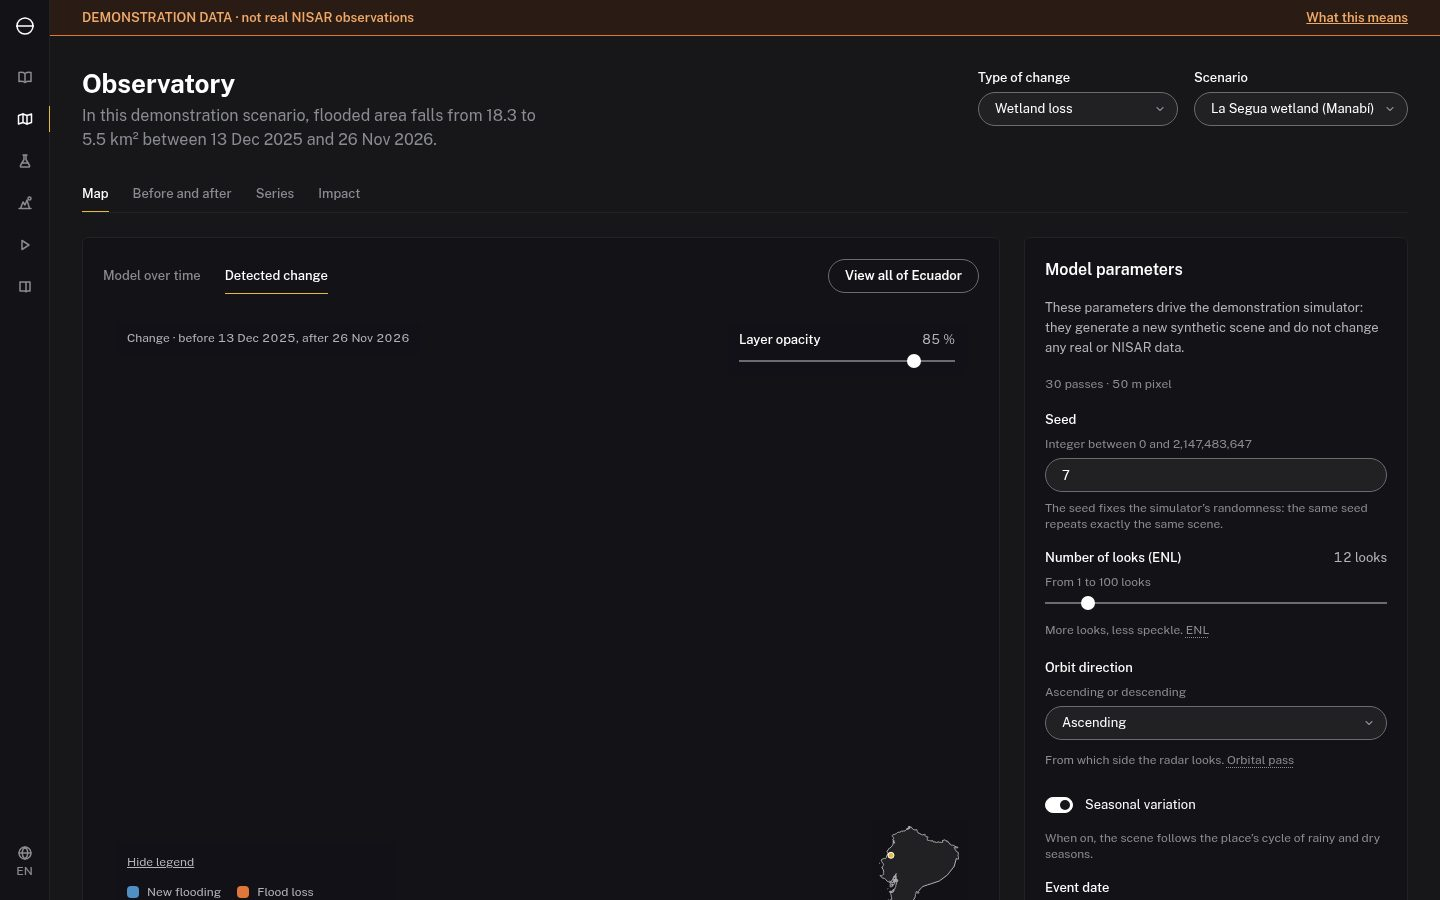
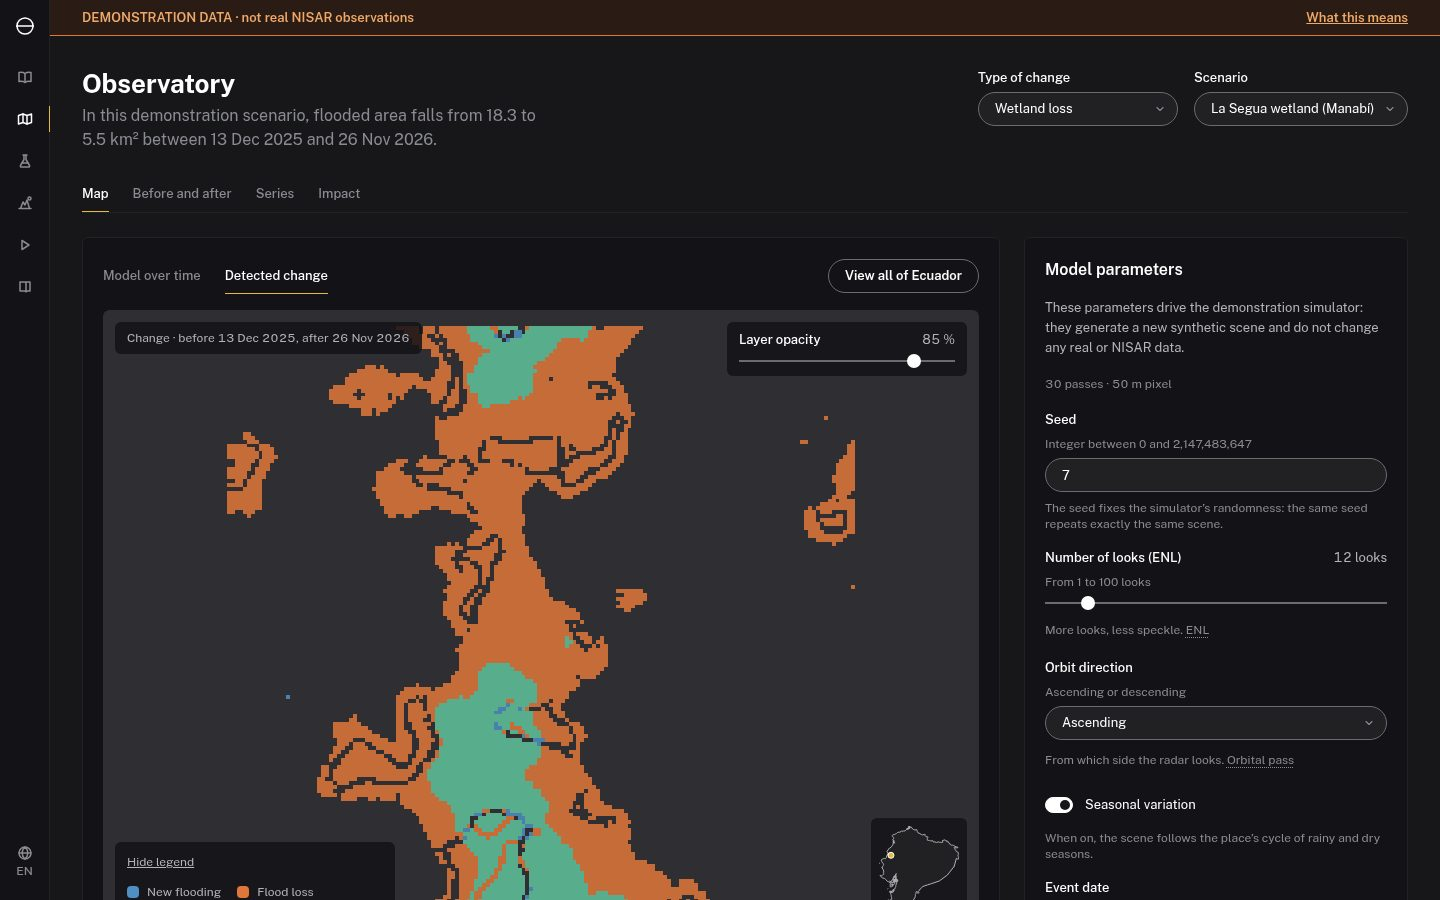
fix(frontend): el mapa del Observatorio conserva su alto y el e2e usa el menú móvil

diff --git a/frontend/e2e/flujos.spec.ts b/frontend/e2e/flujos.spec.ts
@@ -88,10 +88,20 @@ for (const { nombre, ancho, alto } of ANCHOS) {
       const posts: string[] = []
       page.on('request', (r) => { if (r.method() === 'POST' && r.url().includes('/api/simulacion/escenario')) posts.push(r.url()) })
       await page.goto('/observatorio')
-      const todo = page.getByRole('button', { name: 'Ver todo Ecuador' })
+      // En móvil la acción vive en el menú «Más acciones»; en escritorio, en la barra del mapa.
+      const menu = page.getByRole('button', { name: 'Más acciones' })
+      const todo = page.getByRole('button', { name: 'Ver todo Ecuador' }).or(menu)
       await expect(todo).toBeVisible({ timeout: 30_000 })
-      await todo.click()
-      await expect(page.getByRole('button', { name: 'Ver el escenario' })).toBeVisible()
+      if (await menu.isVisible()) {
+        await menu.click()
+        await page.getByRole('menuitem', { name: 'Ver todo Ecuador' }).click()
+        await menu.click()
+        await expect(page.getByRole('menuitem', { name: 'Ver el escenario' })).toBeVisible()
+        await page.keyboard.press('Escape')
+      } else {
+        await todo.click()
+        await expect(page.getByRole('button', { name: 'Ver el escenario' })).toBeVisible()
+      }
       const lienzo = page.getByTestId('mapa')
       await expect(lienzo.locator('canvas.maplibregl-canvas')).toBeVisible()
       // Borde oeste del mapa con todo Ecuador a la vista (el encuadre deja 16 px de margen al oeste de

diff --git a/frontend/src/pantallas/observatorio/observatorio.css b/frontend/src/pantallas/observatorio/observatorio.css
@@ -13,12 +13,12 @@
 .vista-mapa__acciones { display: flex; gap: var(--space-2); flex-wrap: wrap; }
 .observatorio__principal > .vista-mapa { flex: 0 1 auto; }
 .vista-mapa .tarjeta__cuerpo { display: flex; flex-direction: column; gap: var(--space-4); }
-.vista-mapa__mapa { position: relative; min-height: var(--h-mapa); max-height: var(--h-mapa-max); border-radius: var(--radius-card); overflow: hidden; }
+.vista-mapa__mapa { position: relative; height: var(--h-mapa); min-height: var(--h-mapa); max-height: var(--h-mapa-max); border-radius: var(--radius-card); overflow: hidden; }
 .vista-mapa__estado { position: absolute; left: var(--space-3); right: var(--space-3); bottom: var(--space-6); z-index: 3; padding: var(--space-3) var(--space-4); background: var(--surface); border-radius: var(--radius-card); }
 .vista-mapa__aviso { margin: 0; color: var(--warning); font-size: var(--fs-13); }
 .vista-mapa__ayuda { margin: 0; color: var(--muted); font-size: var(--fs-12); line-height: var(--lh-16); }
 @media (max-width: 699px) {
-  .vista-mapa__mapa { min-height: var(--h-mapa-movil); }
+  .vista-mapa__mapa { height: var(--h-mapa-movil); min-height: var(--h-mapa-movil); }
   /* Un selector por fila: los nombres de escenario no caben recortados en dos columnas de 390 px. */
   .observatorio__selectores { display: grid; grid-template-columns: minmax(0, 1fr); width: 100%; gap: var(--space-2); }
   .observatorio__selectores .campo { min-width: 0; }

diff --git a/frontend/e2e/panel.spec.ts b/frontend/e2e/panel.spec.ts
@@ -26,3 +26,14 @@ test('en móvil el mapa del Observatorio empieza a la vista (390x844)', async ({
   const caja = await mapa.boundingBox()
   expect(caja!.y).toBeLessThan(844)
 })
+
+test('el mapa del Observatorio tiene alto propio en escritorio y en móvil', async ({ page }) => {
+  for (const [ancho, alto] of [[1440, 900], [390, 844]]) {
+    await page.setViewportSize({ width: ancho, height: alto })
+    await page.goto('/observatorio')
+    const lienzo = page.getByTestId('mapa')
+    await expect(lienzo).toBeVisible()
+    const caja = await lienzo.boundingBox()
+    expect(caja!.height).toBeGreaterThan(300)
+  }
+})

diff --git a/INFORME.md b/INFORME.md
@@ -122,7 +122,7 @@ Estación y temporada (cubierta por `PanelContexto`), Fundamentos, Modo Dios.
 - Simulador fase 2: decisión A/B (cortafuegos, dique, evacuación), cascadas, retos educativos.
 
 **Visuales / móvil**
-- Avisos del inspector que se defienden (bloque A, 2026-11-08): `ragged-row` del simulador a 1440 px y de «Antes y después» (columna principal y lateral con contenido de distinta altura; el hueco ya no se estira con `flex: 1`, así que no hay tarjetas con vacío artificial), y `panel-void` de 199 px en el Observatorio a 1440 px (zona del mapa sin teselas porque `revision_visual.sh` compila con `VITE_MAPA_REMOTO=0`; con red el mapa la rellena). `below-fold` en las pantallas con columna lateral es esperable.
+- Avisos del inspector que se defienden (bloque A, 2026-11-08): `ragged-row` del simulador a 1440 px y de «Antes y después» (columna principal y lateral con contenido de distinta altura; el hueco ya no se estira con `flex: 1`, así que no hay tarjetas con vacío artificial) (el `panel-void` del Observatorio desapareció al corregir el alto del mapa). `below-fold` en las pantallas con columna lateral es esperable.
 - A 390 px la cinta de pasadas sigue por debajo del primer viewport en el Observatorio (la medición previa a A3 daba y=1300 con la placa desplegada; la placa plegada la acerca, no se midió de nuevo por separado). El mapa sí empieza a la vista (y=478).
 
 **Idioma y accesibilidad (nuevos)**
@@ -277,6 +277,7 @@ Esta sección es el punto de partida; el diseño detallado (spec y plan) se escr
 
 ## Decisiones tomadas sin supervisión
 
+- Bloque A, corrección sobre el plan: quitar `flex: 1` del mapa (A3) dejaba `.mapa` (alto 100 %) en 0 px; `.vista-mapa__mapa` lleva ahora `height` igual a su `min-height` (`--h-mapa` / `--h-mapa-movil`). Lo detectó el e2e «clic fuera de Ecuador» (que además se adaptó al menú móvil) y lo cubre una prueba nueva de alto del mapa.
 - Bloque A (2026-11-08): `MenuAcciones` (tres puntos) en la fila de vistas del Observatorio móvil con «Parámetros del modelo» y, en la vista mapa, «Ver todo Ecuador»; el estado `pais` vive en `Observatorio`. En móvil la placa del mapa es una sola, plegada, con «rótulo · Capa · 85 %». En escritorio las dos columnas se alinean arriba (`align-items: start`) y el mapa mide `--h-mapa`. En Relieve se aplicó el plan A: Esri `World_Terrain_Base` (tesela verificada con HTTP 200 `image/jpeg`, `maxzoom` 13, atribución «Sources: Esri, USGS, NOAA») con las etiquetas de lugares encima de los datos. En el simulador móvil «Mundo» va antes que el tablero, las pestañas no se encogen (`flex: none`, se desplazan en horizontal) y el último KPI impar ocupa la fila entera.
 - `__pycache__` dejó de versionarse (`git rm --cached`) para tener árbol limpio.
 - No se tocó `fecha_evento` de `ec_pedernales` en `data/nisar_sample.csv` (2026-04-16 coincide con el aniversario de un sismo real); **pendiente del equipo** decidir si se cambia.
